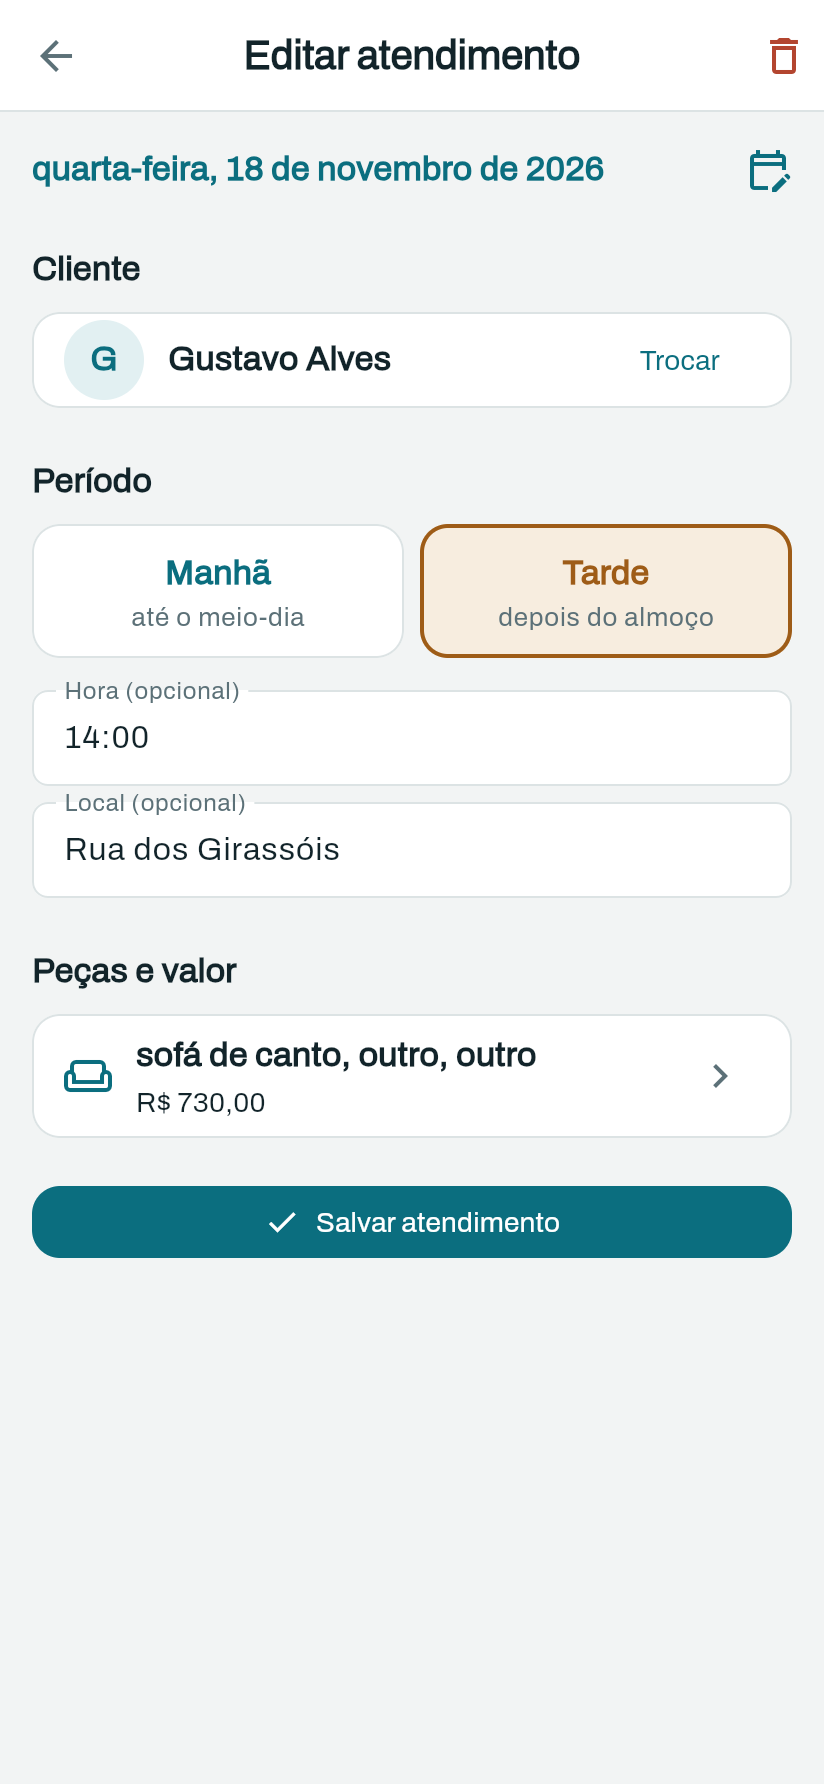
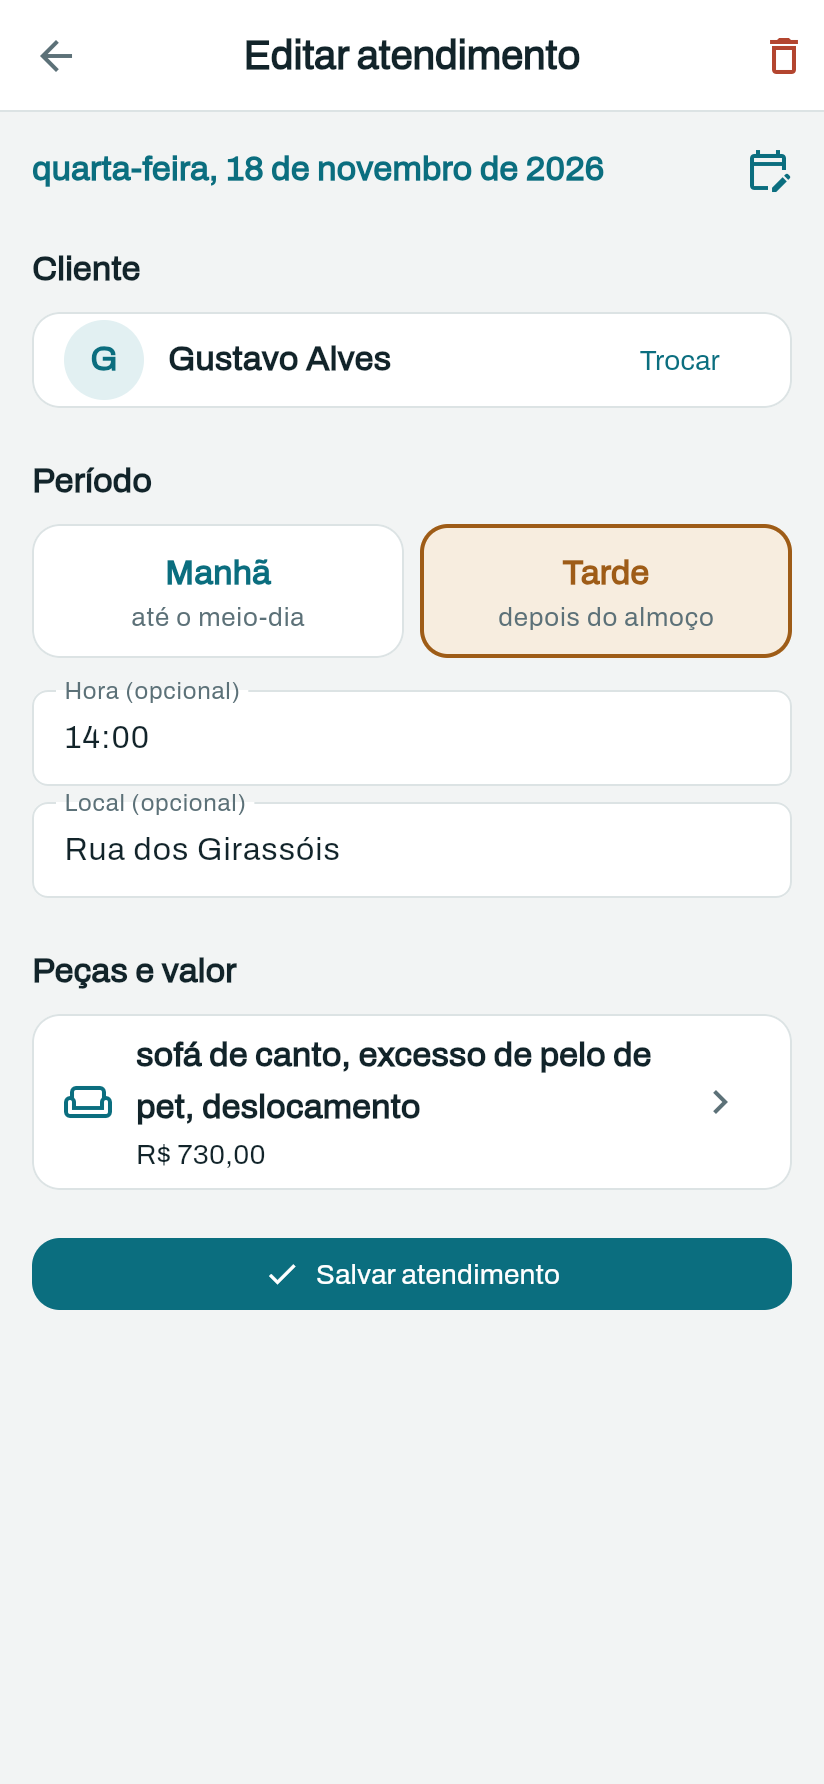
docs: prints sem "outro", galeria de tamanho fixo e cada print ligado ao RF e a HU (#139)

Changed region(s): [[0.0303, 0.5858, 0.9709, 0.7399], [0.8495, 0.5858, 0.8799, 0.6166]]

diff --git a/README.md b/README.md
@@ -6,18 +6,20 @@
 
 <table>
   <tr>
-    <td align="center"><img src="docs/prints/01-agenda-do-dia.png" width="230" alt="Agenda do dia"><br><sub><b>Agenda do dia</b><br>semana no topo, contagem por dia, manhã e tarde, feito e pago no próprio cartão</sub></td>
-    <td align="center"><img src="docs/prints/02-agenda-do-mes.png" width="230" alt="Agenda do mês"><br><sub><b>Visão do mês</b><br>quantos atendimentos em cada dia</sub></td>
-    <td align="center"><img src="docs/prints/03-atendimento.png" width="230" alt="Atendimento"><br><sub><b>Registrar atendimento</b><br>curto: cliente e período bastam</sub></td>
-    <td align="center"><img src="docs/prints/04-pecas-e-valor.png" width="230" alt="Peças e valor"><br><sub><b>Peças e valor</b><br>peça, lugares e serviços sem digitar; preço pela tabela</sub></td>
+    <td align="center" valign="top" width="25%"><img src="docs/prints/01-agenda-do-dia.png" width="180" alt="Agenda do dia"><br><sub><b>Agenda do dia</b><br>semana no topo, manhã e tarde, feito e pago no cartão<br><a href="docs/requisitos.md#rf-010---agenda-por-data">RF-010</a> · <a href="docs/requisitos.md#rf-014---estados-de-conclusão-do-atendimento">RF-014</a> · <a href="docs/requisitos.md#4-histórias-de-usuário-user-stories">HU 6</a></sub></td>
+    <td align="center" valign="top" width="25%"><img src="docs/prints/02-agenda-do-mes.png" width="180" alt="Visão do mês"><br><sub><b>Visão do mês</b><br>quantos atendimentos em cada dia<br><a href="docs/requisitos.md#rf-010---agenda-por-data">RF-010</a> · <a href="docs/requisitos.md#4-histórias-de-usuário-user-stories">HU 6</a></sub></td>
+    <td align="center" valign="top" width="25%"><img src="docs/prints/03-atendimento.png" width="180" alt="Registrar atendimento"><br><sub><b>Registrar atendimento</b><br>cliente e período bastam<br><a href="docs/requisitos.md#rf-005---registrar-atendimento">RF-005</a> · <a href="docs/requisitos.md#4-histórias-de-usuário-user-stories">HU 5</a></sub></td>
+    <td align="center" valign="top" width="25%"><img src="docs/prints/04-pecas-e-valor.png" width="180" alt="Peças e valor"><br><sub><b>Peças e valor</b><br>peça, lugares e serviços sem digitar<br><a href="docs/requisitos.md#rf-013---tabela-de-preços-e-cálculo-do-valor">RF-013</a> · <a href="docs/requisitos.md#4-histórias-de-usuário-user-stories">HU 9</a></sub></td>
   </tr>
   <tr>
-    <td align="center"><img src="docs/prints/05-total-por-grupo.png" width="230" alt="Total por grupo"><br><sub><b>Total à vista</b><br>produtos, mão de obra e imprevistos separados</sub></td>
-    <td align="center"><img src="docs/prints/06-tabela-de-precos.png" width="230" alt="Tabela de preços"><br><sub><b>Tabela de preços</b><br>ela mantém; o produto vem junto com o serviço</sub></td>
-    <td align="center"><img src="docs/prints/07-clientes.png" width="230" alt="Clientes"><br><sub><b>Clientes</b><br>busca por nome ou rua, endereço no Maps</sub></td>
-    <td align="center"><img src="docs/prints/08-cliente-e-historico.png" width="230" alt="Cliente e histórico"><br><sub><b>Histórico do cliente</b><br>quanto cobrou e quando foi a última visita</sub></td>
+    <td align="center" valign="top" width="25%"><img src="docs/prints/05-total-por-grupo.png" width="180" alt="Total por grupo"><br><sub><b>Total por grupo</b><br>produtos, mão de obra e imprevistos<br><a href="docs/requisitos.md#rf-013---tabela-de-preços-e-cálculo-do-valor">RF-013</a> · <a href="docs/requisitos.md#4-histórias-de-usuário-user-stories">HU 9</a></sub></td>
+    <td align="center" valign="top" width="25%"><img src="docs/prints/06-tabela-de-precos.png" width="180" alt="Tabela de preços"><br><sub><b>Tabela de preços</b><br>ela mantém; o produto vem com o serviço<br><a href="docs/requisitos.md#rf-013---tabela-de-preços-e-cálculo-do-valor">RF-013</a> · <a href="docs/requisitos.md#4-histórias-de-usuário-user-stories">HU 9</a></sub></td>
+    <td align="center" valign="top" width="25%"><img src="docs/prints/07-clientes.png" width="180" alt="Clientes"><br><sub><b>Clientes</b><br>busca por nome ou rua, endereço no Maps<br><a href="docs/requisitos.md#rf-003---visualização-da-lista">RF-003</a> · <a href="docs/requisitos.md#rf-004---busca">RF-004</a> · <a href="docs/requisitos.md#rf-009---abrir-endereço-no-mapa">RF-009</a> · <a href="docs/requisitos.md#4-histórias-de-usuário-user-stories">HU 2</a></sub></td>
+    <td align="center" valign="top" width="25%"><img src="docs/prints/08-cliente-e-historico.png" width="180" alt="Histórico do cliente"><br><sub><b>Histórico do cliente</b><br>quanto cobrou e a última visita<br><a href="docs/requisitos.md#rf-011---consultar-o-histórico-de-um-cliente">RF-011</a> · <a href="docs/requisitos.md#4-histórias-de-usuário-user-stories">HU 7</a></sub></td>
   </tr>
 </table>
+
+Cada print aponta para o requisito (RF) e a história de usuário (HU) que ele atende em [`docs/requisitos.md`](./docs/requisitos.md); de lá, a [matriz de rastreabilidade](./docs/matriz-rastreabilidade.md) leva aos casos de teste e aos testes automatizados.
 
 ## O problema
 
@@ -41,7 +43,7 @@ O projeto começou como um cadastro de clientes. Um levantamento de campo em 202
 Desenvolvedor solo, com uma usuária real e um processo que deixa rastro:
 
 - **Requisitos antes do código.** [`docs/requisitos.md`](./docs/requisitos.md) é a fonte da verdade. Cada critério de aceitação vira caso de teste ([`casos-de-teste.md`](./docs/casos-de-teste.md)) e linha na [matriz de rastreabilidade](./docs/matriz-rastreabilidade.md).
-- **Teste antes.** O commit do teste vermelho vem separado do commit da implementação; o histórico mostra o vermelho e o verde. São **240 testes** automatizados (unidade e widget).
+- **Teste antes.** O commit do teste vermelho vem separado do commit da implementação; o histórico mostra o vermelho e o verde. São **241 testes** automatizados (unidade e widget).
 - **CI como gate.** `analyze + test` no GitHub Actions; a `main` é protegida e só recebe PR com o CI verde.
 - **Teste manual registrado.** Cada entrega vai para uma pilha de verificação no celular, e cada rodada vira uma execução registrada em [`execucoes-de-testes-manuais.md`](./docs/execucoes-de-testes-manuais.md). Telas novas só entram depois do ok manual.
 - **Gerência de configuração.** Branches, Conventional Commits, template de PR e documentação sincronizada no mesmo PR ([`gerencia-de-configuracao.md`](./docs/gerencia-de-configuracao.md)).
